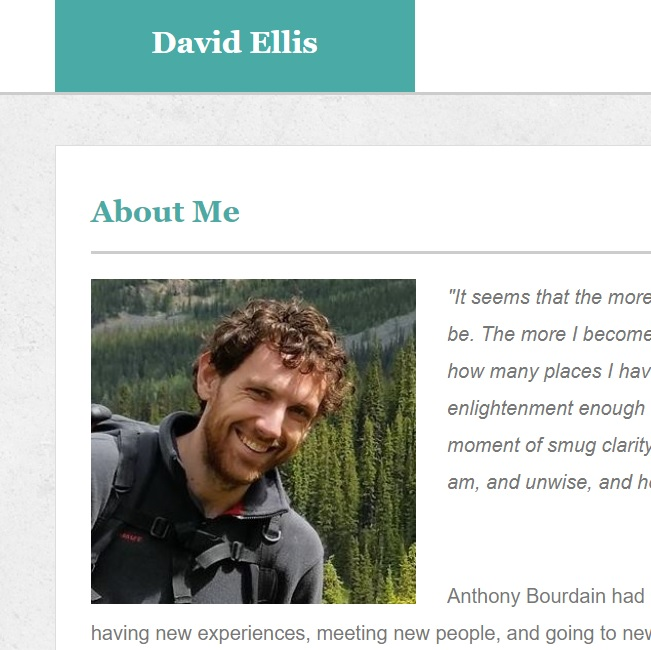
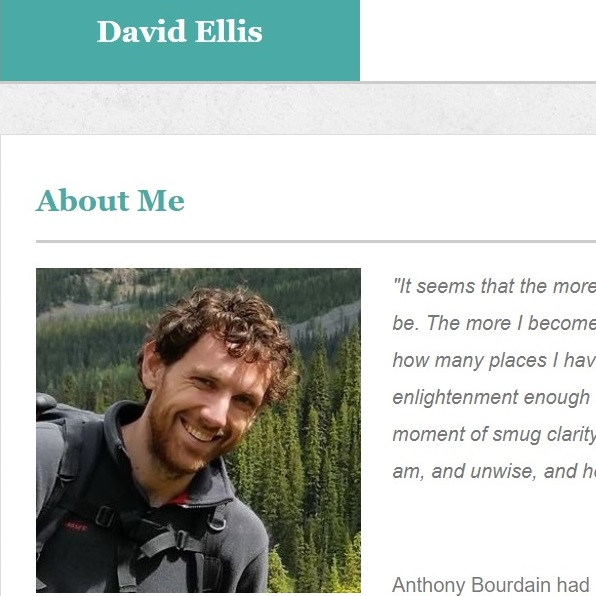
final commit?

diff --git a/assets/css/style.css b/assets/css/style.css
@@ -137,7 +137,7 @@ a {
     height: 260px;
     width: 260px;
     border-style: solid;
-    border-width: 3px;
+    border-width: 2px;
     border-color: rgb(204, 204, 204);
 }
 
